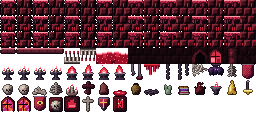
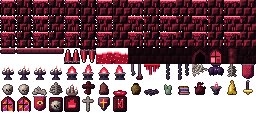
Pinchos: aspecto de alto contraste y borde que tambien pincha
Paleta roja de peligro con contorno oscuro, 2 puntas triangulares por baldosa, igual en los 9 biomas (solo se tocan los tiles de pincho). El jugador pincha tambien con el pie a +-5 px del centro.

Claude-Session: https://claude.ai/code/session_011eeWNo3MRZcztybaatA5Az

Changed region(s): [[0.25, 0.375, 0.375, 0.5]]

diff --git a/Shared/src/main/java/com/julianfarks/roguelike/core/DebugBot.java b/Shared/src/main/java/com/julianfarks/roguelike/core/DebugBot.java
@@ -3,6 +3,7 @@ package com.julianfarks.roguelike.core;
 /** Bot de pruebas para el banco de escritorio (--bot): navega menus y juega sin ayuda. No se usa en Android. */
 public final class DebugBot {
     static String chestSnap(RunState r) { return r.sec + "/" + r.secAmmo + "/" + r.shield + "/" + r.weaponLvl + "/" + r.special + "/" + java.util.Arrays.toString(r.bless) + "/" + r.gold + "/" + r.souls; }
+    private int spPhase, spBx, spGy, spT; private final StringBuilder spRes = new StringBuilder();
     private int brStep, brT; private String brSnap = "";
     private int skStep, skT0, skProj0; private float skHp0;
     private int escStep, escT;
@@ -465,6 +466,35 @@ public final class DebugBot {
             int ok = 0;
             for (Enemy en : spikeEn) { if (en.hp < en.maxHp || !en.alive) ok++; else System.out.println("  sin dano: " + en.def.id + " y=" + Math.round(en.y)); }
             System.out.println("SPIKETEST frame " + frame + ": danados/muertos " + ok + "/" + spikeEn.size());
+        }
+        if (System.getenv("BOT_SPIKEPL") != null && !rs.sandbox && frame > 300 && spPhase >= 0) {
+            Room rm = lv.room; int gy = (int) (p.y / Room.TS);
+            if (frame >= 300 && frame < 310) { p.vx = 0; return; }
+            if (spPhase == 0) {
+                int bx = (int) (p.x / Room.TS) + 8;
+                for (int i = 0; i < 30; i++) for (int j = 1; j <= 12; j++) rm.set(bx + i, gy - j, Room.AIR);
+                for (int i = 0; i < 30; i++) rm.set(bx + i, gy, Room.SOLID);
+                spBx = bx; spGy = gy; spPhase = 1; spT = frame; spRes.setLength(0);
+                lv.enemies.clear(); lv.toKill = 0; lv.rs.hp = lv.rs.stats.maxHp;
+                return;
+            }
+            if (frame < 690) return;
+            if (spPhase >= 1 && spPhase <= 4 && frame > spT + 6) {
+                // casos: 1 = encima de un pincho; 2 = borde (a 6 px de la baldosa: dentro del margen de 5 px+pie); 3 = lejos; 4 = rodando encima
+                int tx = spBx + 4 * spPhase;
+                for (int i = 0; i < 4; i++) { rm.set(tx + i, spGy - 1, Room.AIR); }
+                rm.set(tx + 1, spGy - 1, Room.SPIKE);
+                p.invuln = spPhase == 4 ? 1f : 0; p.hurtT = 0; lv.rs.hp = lv.rs.stats.maxHp; p.vx = 0; p.vy = 0;
+                float cxp = (tx + 1) * Room.TS;
+                p.x = spPhase == 1 ? cxp + 8 : spPhase == 2 ? cxp - 3 : spPhase == 3 ? cxp - 40 : cxp + 8; p.y = spGy * Room.TS - 1;
+                int h0 = Level.dbgHurt; float hp0 = lv.rs.hp;
+                for (int k = 0; k < 4; k++) p.debugHazard(lv, 1 / 60f);
+                int n = Level.dbgHurt - h0;
+                String name = new String[]{"", "encima", "borde (x-5 toca)", "lejos", "invulnerable"}[spPhase];
+                System.out.println("SPIKEPL " + name + ": golpes=" + n + " dano=" + Math.round(hp0 - lv.rs.hp) + " reaparece en x=" + Math.round(p.x) + " (esperado " + (spPhase == 3 ? "0 golpes" : spPhase == 4 ? "0 golpes (i-frames, solo reaparece)" : "1 golpe, 1 sola vez en 4 pasos") + ")");
+                spPhase++; spT = frame; return;
+            }
+            if (spPhase == 5) { System.out.println("SPIKEPL fin"); spPhase = -1; }
         }
         if (System.getenv("BOT_SBTEST") != null) {
             if (!rs.sandbox && sbStep == 0 && frame > 700) {

diff --git a/tools/art_world/tiles_special.py b/tools/art_world/tiles_special.py
@@ -182,41 +182,46 @@ def platform_tiles(P, kind):
     return out
 
 
+DANGER = [(18, 4, 10), (74, 14, 30), (170, 34, 52), (232, 72, 86), (255, 226, 214)]   # rojo peligro, igual en todos los biomas
+IRON = [(12, 4, 8), (38, 30, 46), (92, 84, 108), (150, 142, 166)]
+
+
 def spikes(P, up=True, body=None, tip=None, base_col=None, blood=False):
-    B = body if body is not None else P['spike']
+    """Pinchos de alto contraste: puntas rojas con borde oscuro y punta casi blanca sobre placa de hierro.
+    Misma paleta en todos los biomas (no se confunden con el suelo); caja de colision = la baldosa completa."""
+    D = DANGER
     out = np.zeros((16, 16, 4), np.uint8)
+    pix = {}
 
     def setp(x, y, col):
         if 0 <= x < 16 and 0 <= y < 16:
-            yy = y if up else 15 - y
-            out[yy, x, :3] = np.clip(col, 0, 255)
-            out[yy, x, 3] = 255
-    # placa base (coordenadas "up": y=15 es la base)
-    for x in range(16):
-        setp(x, 15, B[0])
-        setp(x, 14, B[1])
-        setp(x, 13, B[3] if x % 4 else B[2])
-    for k in range(4):
-        cx = 4 * k + 2
-        ytip, ybase = 2, 12
+            pix[(x, y)] = col
+    for x in range(16):                       # placa base (y=15 es la base)
+        setp(x, 15, IRON[0]); setp(x, 14, IRON[1])
+        setp(x, 13, IRON[3] if x % 4 == 2 else IRON[2])
+        if x % 4 == 0: setp(x, 14, D[3])      # remache rojo
+    body_px = set()
+    for cx in (4, 12):                        # 2 puntas triangulares por baldosa: silueta clara de lejos
+        ytip, ybase = 1, 12
         for y in range(ytip, ybase + 1):
             t = (y - ytip) / (ybase - ytip)
-            hw = 0.5 + 1.5 * t
-            xl = int(round(cx - hw))
-            xr = int(round(cx + hw))
+            hw = 0.5 + 2.9 * t
+            xl = int(round(cx - hw)); xr = int(round(cx + hw))
             for x in range(xl, xr):
-                if x < cx:
-                    col = B[3] if x > xl or xr - xl <= 2 else B[2]
-                    if x == cx - 1 and t > .3:
-                        col = B[4] if (y % 3) else B[3]
-                else:
-                    col = B[1] if x < xr - 1 else B[0]
-                setp(x, y, col)
-        setp(cx - 1, ytip, tip if tip is not None else B[4])
-        if blood:
-            for y, kk in ((ytip + 1, 2), (ytip + 2, 2), (ytip + 3, 1)):
-                setp(cx - 1, y, P['liquid'][kk])
-                setp(cx, y, P['liquid'][kk - 1])
+                if x < cx - 1: col = D[2]
+                elif x < cx: col = D[3]
+                elif x == cx: col = D[2]
+                else: col = D[1]
+                if y <= ytip + 2: col = D[4] if x < cx else D[3]
+                setp(x, y, col); body_px.add((x, y))
+    for (x, y) in list(body_px):              # contorno oscuro para la silueta
+        for dx, dy in ((-1, 0), (1, 0), (0, -1)):
+            q = (x + dx, y + dy)
+            if q not in pix and 0 <= q[0] < 16 and 0 <= q[1] < 16:
+                pix[q] = D[0]
+    for (x, y), col in pix.items():
+        yy = y if up else 15 - y
+        out[yy, x, :3] = np.clip(col, 0, 255); out[yy, x, 3] = 255
     return out
 
 

diff --git a/Shared/src/main/java/com/julianfarks/roguelike/core/Player.java b/Shared/src/main/java/com/julianfarks/roguelike/core/Player.java
@@ -770,6 +770,7 @@ public final class Player extends Ent {
         return true;
     }
 
+    public void debugHazard(Level lv, float dt) { checkHazards(lv, dt); }
     private void checkHazards(Level lv, float dt) {
         Room rm = lv.room;
         if (onGround && y < rm.pixH - 2) {
@@ -779,7 +780,7 @@ public final class Player extends Ent {
                 if (isSafeSpot(rm, x, y)) { safeX = x; safeY = y; }
             }
         }
-        boolean hazard = rm.hazardAt(x, y - 4) || rm.hazardAt(x, y - bh + 3) || y >= rm.pixH - 1;
+        boolean hazard = rm.hazardAt(x, y - 4) || rm.hazardAt(x - 5, y - 4) || rm.hazardAt(x + 5, y - 4) || rm.hazardAt(x, y - bh + 3) || y >= rm.pixH - 1;   // pies a +-5 px: el borde del pincho tambien pincha
         if (!hazard) hazardN = 0;
         if (hazard && state != ROLL || hazard && y >= rm.pixH - 1) {
             float dmg = 8 + lv.rs.stats.maxHp * 0.08f;
